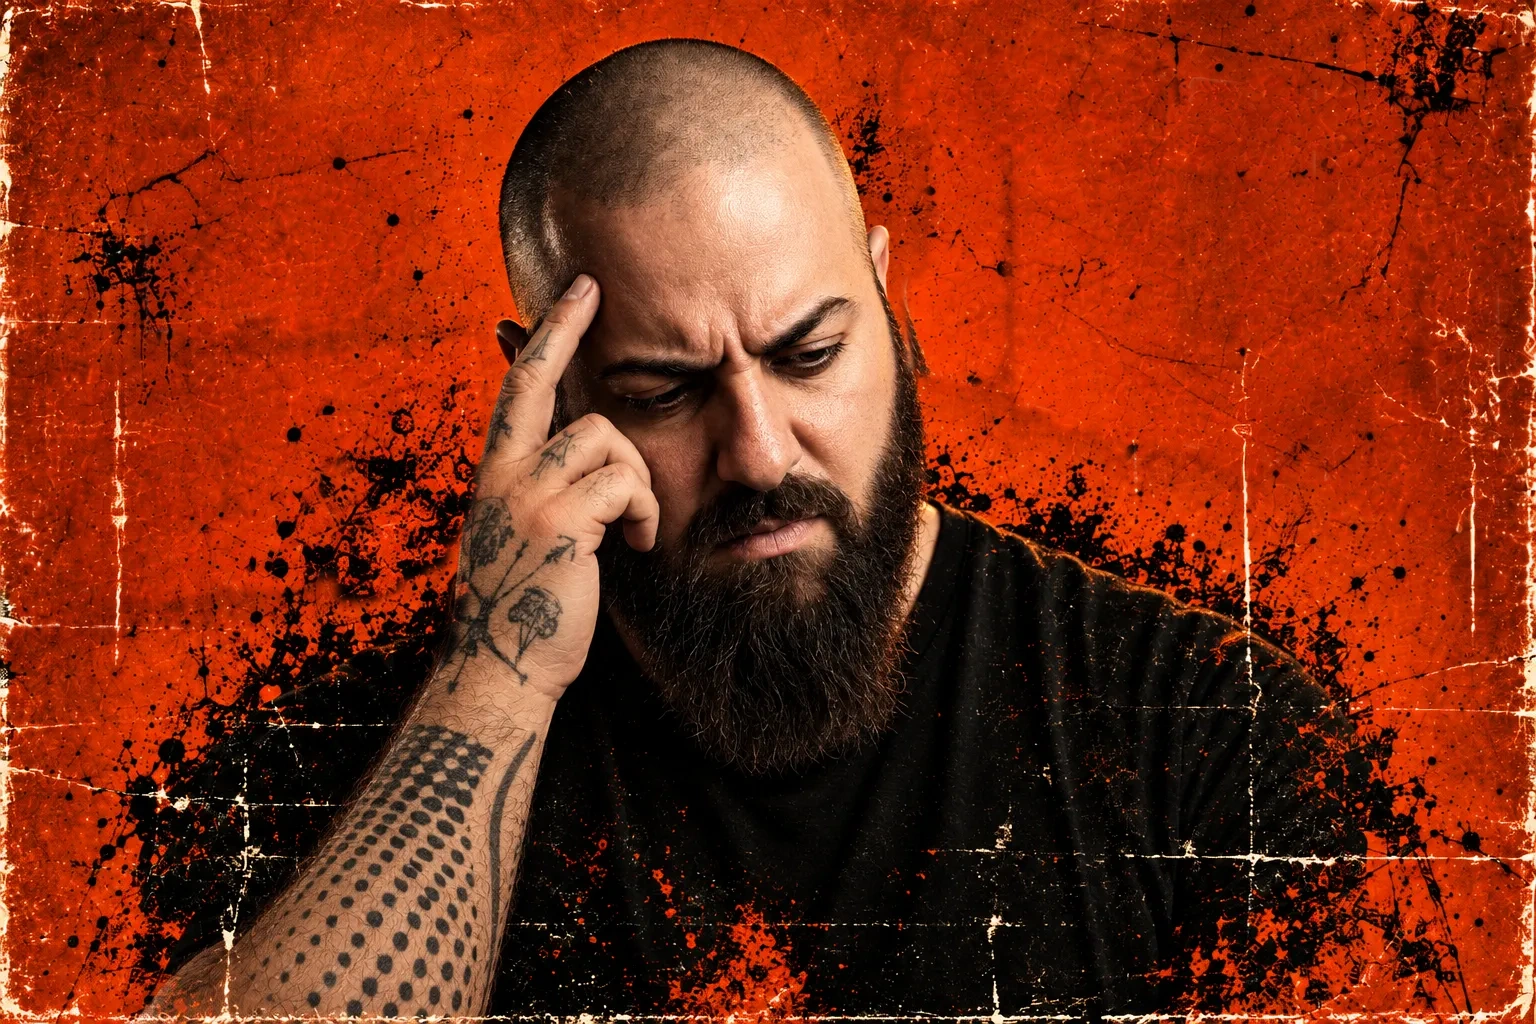
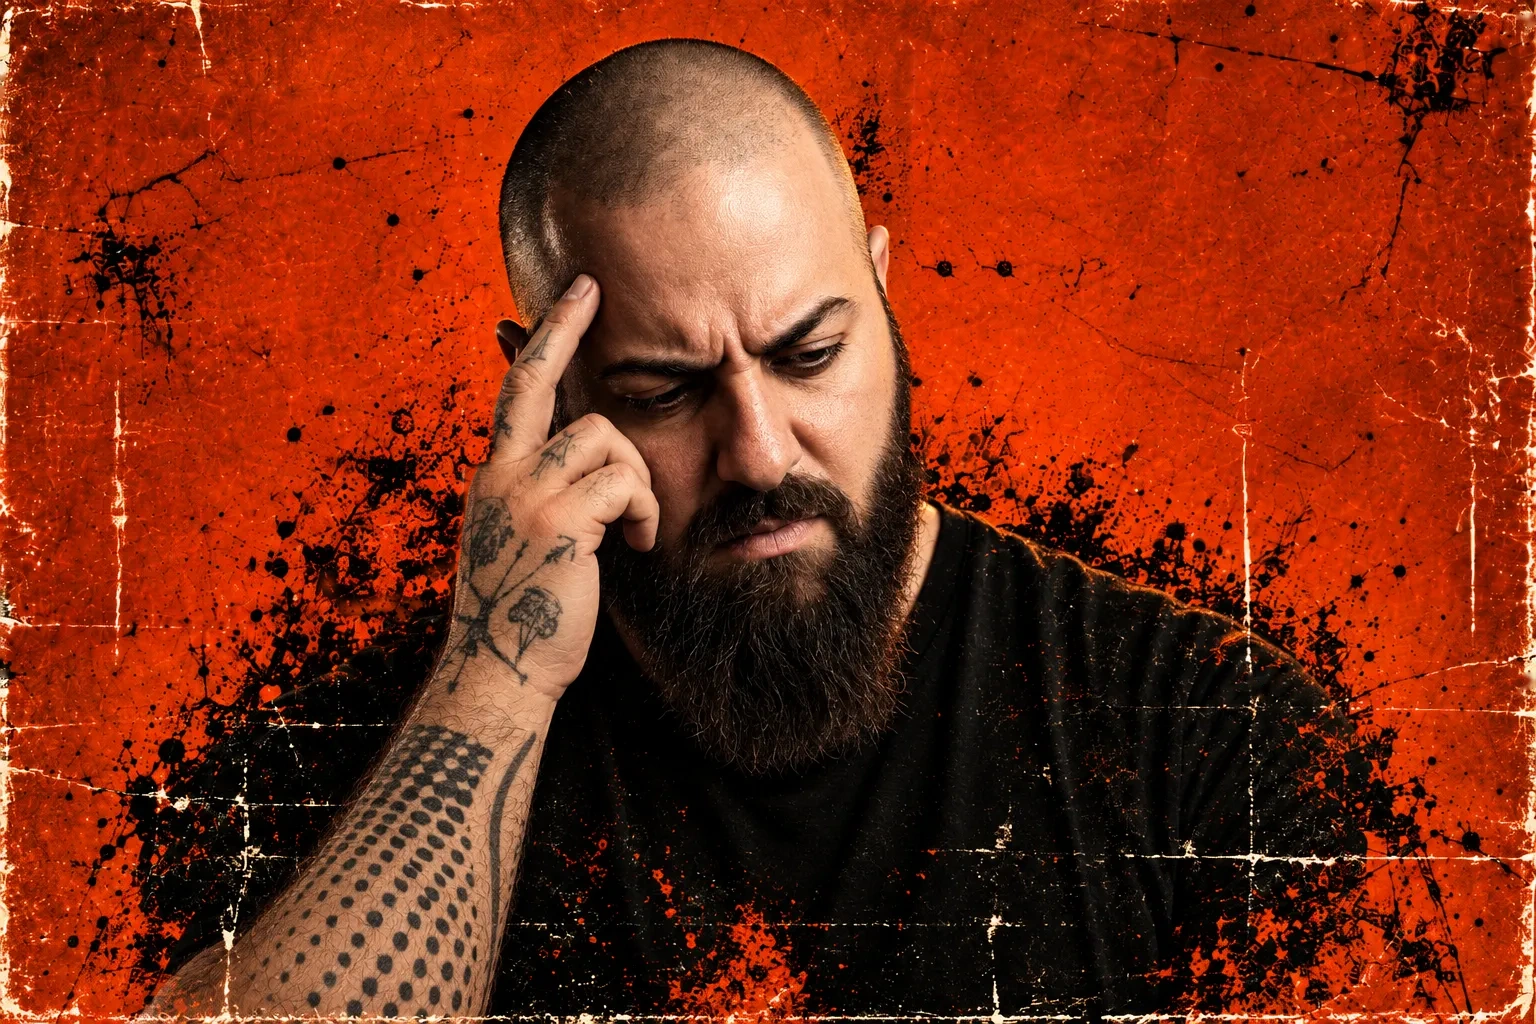
Per-line overlap exits, sub-pixel compositing, cleaner title removal
- Lines leave early only when the next card writes over them (screen
  boxes), so 'ומתרסקים' holds while sung and no text crossfades on text
- Sub-pixel compositing and integer resting positions: no 1 px hops
- Write-on starts from rest; prayer words get time to rest
- Title removal protects the singer's beard and forearm, closes letter
  shadows and inpaints leftover slivers

Claude-Session: https://claude.ai/code/session_01KdpRr45jzznDg3P1vX5Ghr

diff --git a/lyric-video/render.py b/lyric-video/render.py
@@ -41,8 +41,8 @@ SIZE_GRUNGE = {"normal": 96, "big": 132, "huge": 205}
 SIZE_PRAYER = {"normal": 150, "big": 190, "huge": 250}   # closing prayer: gold serif, enlarged
 
 EXIT_DUR = {"default": 0.35, "crash": 1.2, "wind": 1.1, "sink": 0.9, "fall": 0.6,
-            "glitch": 0.5, "prayer": 0.9, "angel": 0.6, "devil": 0.5}
-ENTRY_LEAD = {"write": 0.05}   # seconds an entry starts before the sung onset (others: 0.15)
+            "glitch": 0.5, "prayer": 0.6, "angel": 0.6, "devil": 0.5}
+ENTRY_LEAD = {"write": 0.1}    # seconds an entry starts before the sung onset (others: 0.15)
 
 COVER_DISSOLVE = 3.0      # seconds of cross-dissolve from the title cover into the clip
 ZOOM_END = 1.03           # background creeps from 1.00 to this zoom over the whole song
@@ -191,6 +191,7 @@ class LineItem:
     seed: float = 0.0
     space: float = 0.0
     size: int = 0
+    t_exit: float = 0.0     # this line's own exit time (never later than its card's)
 
 
 @dataclass
@@ -288,8 +289,8 @@ def layout(scene):
             x = right
             for w in ln.words:   # Hebrew: first word on the right
                 lx = x - w.adv / 2 - cx
-                w.x = cx + lx * math.cos(th)
-                w.y = cy - lx * math.sin(th)
+                w.x = round(cx + lx * math.cos(th) - w.ax) + w.ax
+                w.y = round(cy - lx * math.sin(th) - w.ay) + w.ay
                 x -= w.adv + ln.space
             y += hgt + gap
 
@@ -303,16 +304,46 @@ def timing(scene):
         nxt = scene[i + 1].t_in if i + 1 < len(scene) else 1e9
         hold = 2.2 if card.lines[0].font_kind != "prayer" else 3.5
         t = min(nxt - 0.12, max(last.end, last.start + 0.45) + hold)
-        if i + 1 < len(scene) and _positions(card) & _positions(scene[i + 1]):
-            # the next card writes where this one sits: finish the exit before it starts
-            gone = max(EXIT_DUR.get(ln.exit, EXIT_DUR["default"]) + 0.03 * len(ln.words) for ln in card.lines)
-            t = min(t, nxt - 0.05 - gone)
         card.t_exit = max(t, last.start + 0.40)
+        for ln in card.lines:
+            ln.t_exit = card.t_exit
+            if i + 1 == len(scene):
+                continue
+            # a line that the next card writes over leaves early enough to be gone first,
+            # but never before it has been sung and shown for a moment
+            lw = max(ln.words, key=lambda w: w.start)
+            floor = max(lw.end, lw.start + 0.45) + 0.4
+            gone = EXIT_DUR.get(ln.exit, EXIT_DUR["default"]) + 0.03 * len(ln.words)
+            box = _line_box(ln)
+            for nl in scene[i + 1].lines:
+                if _boxes_touch(box, _line_box(nl)):
+                    t0 = min(w.start for w in nl.words) - ENTRY_LEAD.get(nl.entry, 0.15)
+                    ln.t_exit = min(ln.t_exit, max(floor, t0 - 0.05 - gone))
+        if card.lines[0].font_kind == "prayer":
+            # the prayer screens change as a whole
+            t = min(ln.t_exit for ln in card.lines)
+            for ln in card.lines:
+                ln.t_exit = t
 
 
-def _positions(card):
-    """(side, first-line?) slots a card occupies, e.g. {('C', 0), ('R', 1)}."""
-    return {(next((p for p in "RLC" if p in ln.tags), "R"), min(i, 1)) for i, ln in enumerate(card.lines)}
+def _line_box(ln, pad=24):
+    """Screen bounding box of a line's ink at rest (x0, y0, x1, y1), padded."""
+    xs0, ys0, xs1, ys1 = [], [], [], []
+    for w in ln.words:
+        ink = w.sprite[..., 3] > 24
+        rows, cols = np.where(ink.any(1))[0], np.where(ink.any(0))[0]
+        if not len(rows):
+            continue
+        x0, y0 = w.x - w.ax, w.y - w.ay
+        xs0.append(x0 + cols[0])
+        xs1.append(x0 + cols[-1])
+        ys0.append(y0 + rows[0])
+        ys1.append(y0 + rows[-1])
+    return (min(xs0) - pad, min(ys0) - pad, max(xs1) + pad, max(ys1) + pad)
+
+
+def _boxes_touch(a, b):
+    return a[0] < b[2] and b[0] < a[2] and a[1] < b[3] and b[1] < a[3]
 
 
 # ----------------------------------------------------------------------------- word animation
@@ -325,7 +356,7 @@ def word_ops(ln, w, card, t):
     t0 = w.start - ENTRY_LEAD.get(e, 0.15)
     if t < t0:
         return []
-    te = card.t_exit + 0.03 * w.k
+    te = ln.t_exit + 0.03 * w.k
     exit_dur = EXIT_DUR.get(ln.exit, EXIT_DUR["default"])
     if t > te + exit_dur:
         return []
@@ -334,8 +365,8 @@ def word_ops(ln, w, card, t):
     dt = t - t0
 
     if e == "write":
-        dur = min(0.5, max(0.18, 0.8 * (w.end - w.start)))
-        arr = wipe_rtl(arr, ease_out_cubic(dt / dur))
+        dur = min(0.5, max(0.3, 0.8 * (w.end - w.start)))
+        arr = wipe_rtl(arr, ease_in_out(dt / dur))
         y += 6 * (1 - ease_in_out(dt / dur))
     elif e in ("pop", "pulse"):
         p = dt / 0.5
@@ -374,7 +405,7 @@ def word_ops(ln, w, card, t):
         if p < 1:
             arr = blur(arr, 6 * (1 - p))
     elif e == "prayer":
-        p = dt / 1.1
+        p = dt / 0.75
         alpha = ease_in_out(p)
         y += 20 * (1 - ease_out_cubic(p))
         if p < 1:
@@ -532,10 +563,33 @@ class Background:
 
 
 # ----------------------------------------------------------------------------- frame
+def subpixel(src, fx, fy):
+    """Shift an RGBA sprite right/down by a fraction of a pixel (bilinear, premultiplied).
+    The result is one pixel larger in each direction."""
+    a = src[..., 3:4].astype(np.float32) / 255.0
+    p = np.zeros((src.shape[0] + 1, src.shape[1] + 1, 4), np.float32)
+    p[1:, 1:, :3] = src[..., :3] * a
+    p[1:, 1:, 3:] = a
+    out = ((1 - fx) * (1 - fy)) * p
+    out[:, 1:] += (fx * (1 - fy)) * p[:, :-1]
+    out[1:, :] += ((1 - fx) * fy) * p[:-1, :]
+    out[1:, 1:] += (fx * fy) * p[:-1, :-1]
+    # out is the sprite moved by (fx, fy) inside a canvas whose origin is one pixel up-left
+    rgb = out[..., :3] / np.maximum(out[..., 3:], 1e-4)
+    return np.dstack([np.clip(rgb, 0, 255), np.clip(out[..., 3] * 255, 0, 255)]).astype(np.uint8)
+
+
 def blend(dst, src, x, y, alpha):
     if alpha <= 0.003:
         return
-    x, y = int(round(x)), int(round(y))
+    xi, yi = math.floor(x), math.floor(y)
+    fx, fy = x - xi, y - yi
+    if 0.02 < fx < 0.98 or 0.02 < fy < 0.98:
+        src = subpixel(src, fx, fy)
+        xi, yi = xi - 1, yi - 1
+    else:
+        xi, yi = int(round(x)), int(round(y))
+    x, y = xi, yi
     h, w = src.shape[:2]
     x0, y0, x1, y1 = max(x, 0), max(y, 0), min(x + w, W), min(y + h, H)
     if x1 <= x0 or y1 <= y0:

diff --git a/lyric-video/make_clean_background.py b/lyric-video/make_clean_background.py
@@ -1,9 +1,11 @@
 """Build the under-lyrics background from the title cover by erasing its painted title.
 
-cover_title.webp and cover.webp share the exact same background texture (they match
-pixel-for-pixel outside the singer), but the singer differs between them. Using the
-cover's own singer for the whole clip avoids a double image when the cover dissolves
-into the clip. The title letters are masked and filled with the texture of cover.webp.
+cover_title.webp and cover.webp share the same background composition (orange wall,
+splatter, scratches), but the singer is placed differently in the two. Using the cover's
+own singer for the whole clip avoids a double image when the cover dissolves into the
+clip. The title letters (with their drop shadows) are masked and filled with the wall
+texture of cover.webp; next to the singer's face, where cover.webp has its own beard and
+ear, the texture is borrowed from a little further right so no second beard edge appears.
 
 usage: python make_clean_background.py assets/cover_title.webp assets/cover.webp assets/background.webp
 """
@@ -13,9 +15,14 @@ import cv2
 import numpy as np
 from PIL import Image
 
-# rough boxes around the painted title (x0, y0, x1, y1 in the 1536x1024 cover); the
-# singer sits between them and is never touched
-TITLE_BOXES = [(905, 30, 1536, 680), (0, 90, 495, 660)]
+# polygons around the painted title (1536x1024 cover coordinates). They stop at the
+# singer's beard (right) and follow the edge of his forearm (left), so he is never touched.
+TITLE_AREAS = [
+    [(908, 30), (1536, 30), (1536, 680), (908, 680)],
+    [(0, 90), (495, 90), (495, 466), (466, 470), (466, 520), (461, 560), (445, 620), (432, 660), (0, 660)],
+]
+# where cover.webp holds its own ear/beard edge next to the right title letter
+SINGER_EDGE = (895, 180, 965, 480)
 
 
 def cream(img):
@@ -23,26 +30,46 @@ def cream(img):
     return (hsv[..., 2] > 150) & (hsv[..., 1] < 110)
 
 
+def lum(img):
+    return img @ np.array([0.299, 0.587, 0.114], np.float32)
+
+
 def main():
     title_path, texture_path, out_path = sys.argv[1:4]
     B = np.asarray(Image.open(title_path).convert("RGB")).astype(np.float32)
     A = np.asarray(Image.open(texture_path).convert("RGB")).astype(np.float32)
     assert A.shape == B.shape
-    box = np.zeros(B.shape[:2], bool)
-    for x0, y0, x1, y1 in TITLE_BOXES:
-        box[y0:y1, x0:x1] = True
-    # big letter bodies
+    box8 = np.zeros(B.shape[:2], np.uint8)
+    cv2.fillPoly(box8, [np.array(p, np.int32) for p in TITLE_AREAS], 1)
+    box = box8.astype(bool)
+    # soft limit that fades to zero at the polygon edge, so blur never leaks onto the singer
+    limit = cv2.GaussianBlur(cv2.erode(box8, np.ones((5, 5), np.uint8)).astype(np.float32), (0, 0), 1.5)
+    # letter bodies, with the gaps between strokes closed (they hold the letters' shadow)
     m = cv2.morphologyEx((cream(B) & box).astype(np.uint8), cv2.MORPH_OPEN, np.ones((7, 7), np.uint8))
     n, lab, st, _ = cv2.connectedComponentsWithStats(m)
     body = np.isin(lab, [i for i in range(1, n) if st[i][4] > 1500]).astype(np.uint8)
+    body = cv2.morphologyEx(body, cv2.MORPH_CLOSE, np.ones((41, 41), np.uint8))
     mask = cv2.dilate(body, np.ones((25, 25), np.uint8))
-    # thin drips/edges: cream in the cover but not in the texture source, near the title
+    # thin drips/edges (cream only in the cover) and drop shadows (darker only in the cover)
     near = cv2.dilate(body, np.ones((161, 161), np.uint8)).astype(bool) & box
-    extra = (cream(B) & ~cream(A) & near).astype(np.uint8)
-    mask = np.maximum(mask, cv2.dilate(extra, np.ones((9, 9), np.uint8)))
-    a = cv2.GaussianBlur(mask.astype(np.float32), (0, 0), 4)[..., None]
-    clean = B * (1 - a) + A * a
-    Image.fromarray(clean.clip(0, 255).astype(np.uint8)).save(out_path, quality=95)
+    extra = (cream(B) & ~cream(A)) | (lum(A) - lum(B) > 12)
+    mask = np.maximum(mask, cv2.dilate((extra & near).astype(np.uint8), np.ones((9, 9), np.uint8)))
+    mask = (mask.astype(bool) & box).astype(np.float32)
+    a = (cv2.GaussianBlur(mask, (0, 0), 4) * limit)[..., None]
+    x0, y0, x1, y1 = SINGER_EDGE
+    # texture source: cover.webp, but beside the face take its wall from 60 px further right
+    z = np.zeros(B.shape[:2], np.float32)
+    z[y0:y1, x0:x1] = 1
+    z = cv2.GaussianBlur(z, (0, 0), 6)[..., None]
+    fill = A * (1 - z) + np.roll(A, -60, axis=1) * z
+    clean = (B * (1 - a) + fill * a).clip(0, 255).astype(np.uint8)
+    # slivers of letter left where a letter touched the singer: inpaint the pure letter
+    # cream (paler and less saturated than skin) along the polygon edge only
+    hsv = cv2.cvtColor(clean, cv2.COLOR_RGB2HSV)
+    band = cv2.dilate(box8, np.ones((31, 31), np.uint8)) & (1 - cv2.erode(box8, np.ones((15, 15), np.uint8)))
+    sliver = ((hsv[..., 2] > 175) & (hsv[..., 1] < 80) & band.astype(bool)).astype(np.uint8)
+    clean = cv2.inpaint(clean, cv2.dilate(sliver, np.ones((5, 5), np.uint8)), 5, cv2.INPAINT_TELEA)
+    Image.fromarray(clean).save(out_path, quality=95)
     print("masked fraction", float(a.mean()))
 
 
